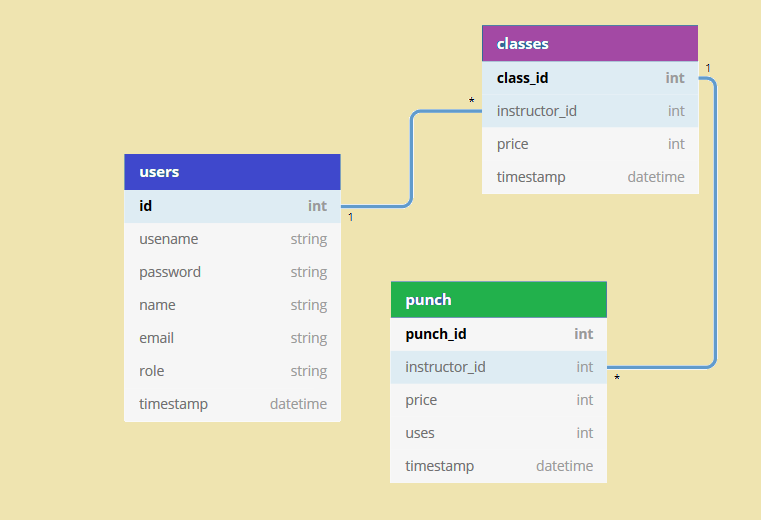
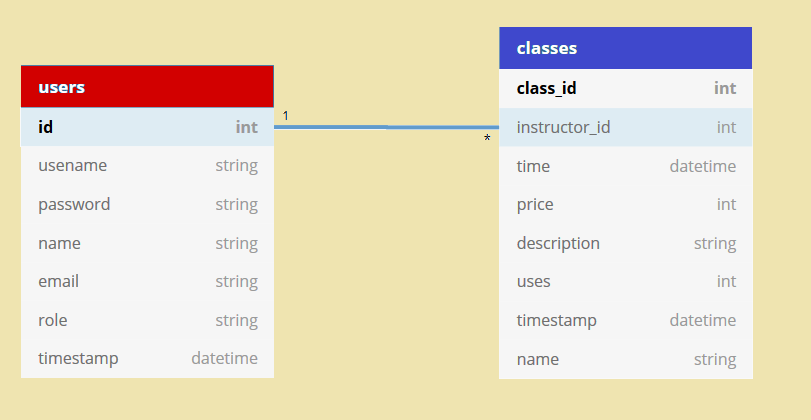
updated readme and schema

diff --git a/index.js b/index.js
@@ -2,13 +2,15 @@ const server = require('./api/server');
 
 //add a message to the Array and it will be added in randomly with the deploy, just another quick way to check if changes have occurred
 var randomMessage = ['Hello Human','whose api is this anyway?',':)','Who left the API running?','welcome to the machine'];
+var randomWelcome = ['welcome developer','hello world','server is serving ','activated'];
 var message = randomMessage[Math.floor(Math.random()*randomMessage.length)];
+var welcome = randomWelcome[Math.floor(Math.random()*randomWelcome.length)];
 
 server.get('/', (req, res) => {
     res.status(200).json(message) //random message appears here
 });
 //port
 const port = process.env.PORT || 9001;
-server.listen(port, () => console.log(`\nserver live on: http://localhost:${port}\n`));
+server.listen(port, () => console.log(`***** ${welcome} *****\nserver live on: http://localhost:${port}\n`));
 
 

diff --git a/README.md b/README.md
@@ -15,9 +15,17 @@ bcrypt bcryptjs cors dotenv express faker helmet jsonwebtoken knex knex-cleaner 
 
 # Schema
 ![Air Fitness Database Schema](schema-info/schemasnap.png)
-may require changes
+pending
 
 # RESTful API end points
 
-coming soon
+GET
+List of users
+ ```/api/users```
+POST
+Login 
+```/api/user/login``
+Register 
+```/api/users/reg
+more coming soon
 
